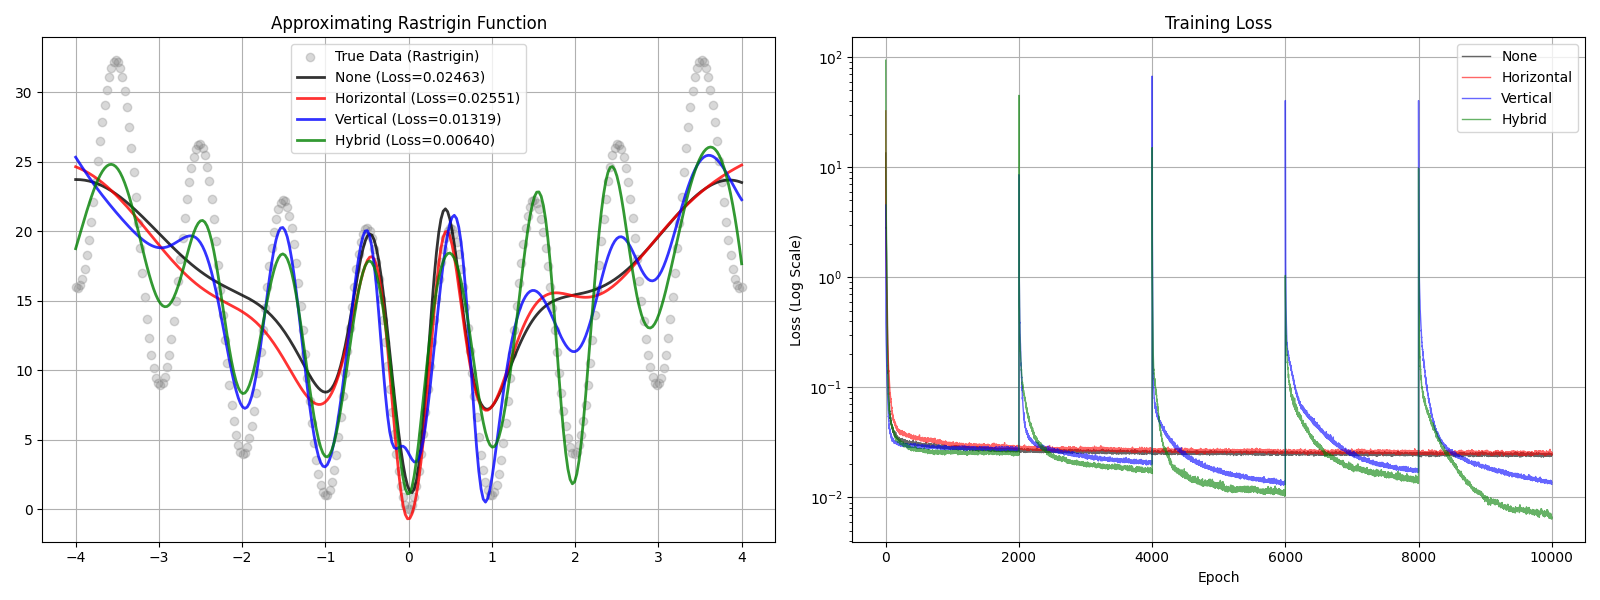
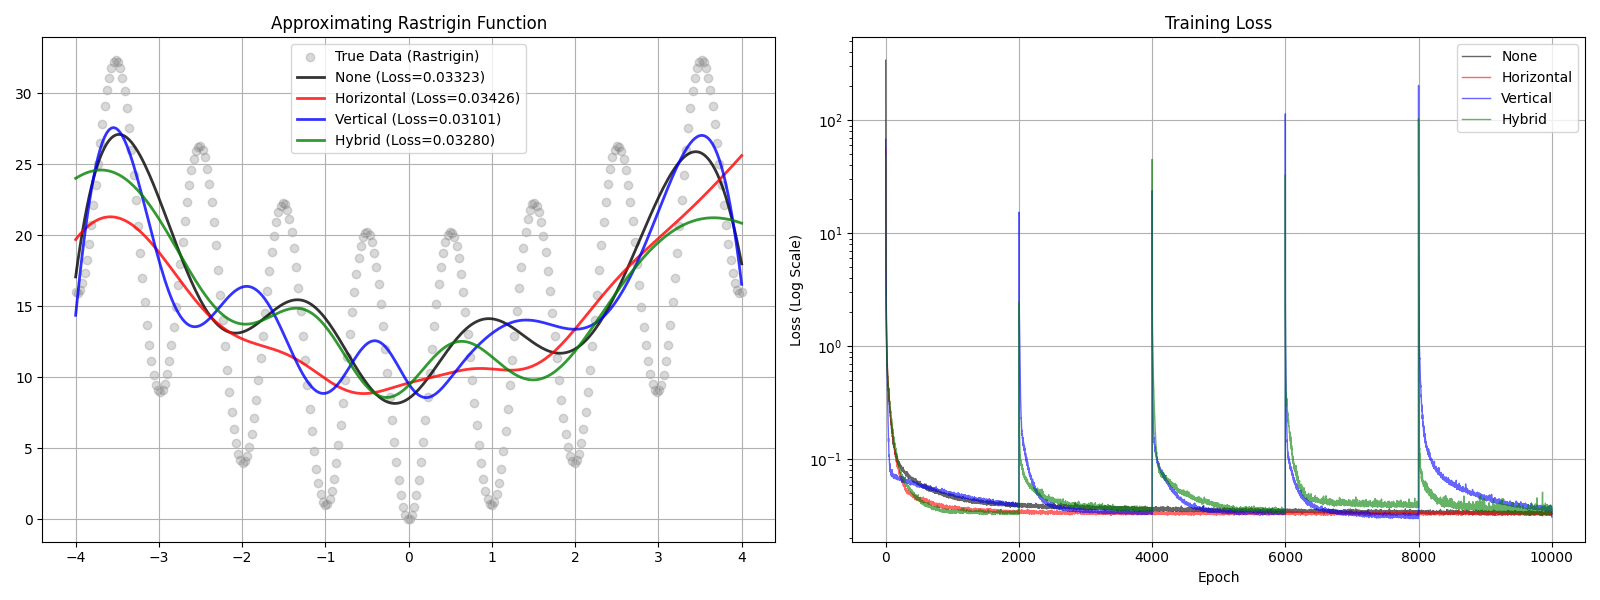
アプローチA：層別のノイズと学習率の導入～入力層、出力層の近さで層を大粒子、小粒子に見立てて小粒子のノイズや学習率を大きくした

diff --git a/physics_sim/vibration.py b/physics_sim/vibration.py
@@ -15,13 +15,25 @@ class PhysicsOptimizer:
            Hybridモードでも有効
         """
         if self.mode not in ["Horizontal", "Hybrid"]: return
-
+        
         for layer in network.layers:
-            # 勾配の大きさに関わらず一定のノイズ
-            noise_w = np.random.normal(0, self.noise_scale, layer.weights_gradient.shape)
-            noise_b = np.random.normal(0, self.noise_scale, layer.biases_gradient.shape)
-            layer.weights_gradient += noise_w
-            layer.biases_gradient += noise_b
+            # 入力層に近い層を大粒子と見立てて分岐
+            if layer.name == "Hidden1":
+                # 勾配の大きさに関わらず一定のノイズ
+                noise_w = np.random.normal(0, self.noise_scale, layer.weights_gradient.shape)
+                noise_b = np.random.normal(0, self.noise_scale, layer.biases_gradient.shape)
+                layer.weights_gradient += noise_w
+                layer.biases_gradient += noise_b
+
+            # 出力に近い層を小粒子と見立てて分岐
+            # 大粒子の1/10のスケールとしておく
+            elif layer.name in ["Hidden2" or "Output"]:
+                noise_w = np.random.normal(0, self.noise_scale*1.5, layer.weights_gradient.shape)
+                noise_b = np.random.normal(0, self.noise_scale*1.5, layer.biases_gradient.shape)
+                layer.weights_gradient += noise_w
+                layer.biases_gradient += noise_b
+
+
 
     def apply_vertical_vibration(self, network, epoch):
         """鉛直振動: 重みに衝撃を与える

diff --git a/ml_core/network.py b/ml_core/network.py
@@ -24,5 +24,12 @@ class Network:
     def update(self, learning_rate):
         # 勾配降下法によるパラメータの更新
         for layer in self.layers:
-            layer.weights -= learning_rate * layer.weights_gradient
-            layer.biases -= learning_rate * layer.biases_gradient
+            # 入力層に近い層を大粒子として専用の学習率を適用する
+            if layer.name == "Hidden1":
+                layer.weights -= learning_rate * layer.weights_gradient
+                layer.biases -= learning_rate * layer.biases_gradient
+
+            # 出力層に近い層を小粒子として専用の学習率を適用する
+            if layer.name in ["Hidden2", "Output"]:
+                layer.weights -= (learning_rate*1.5) * layer.weights_gradient
+                layer.biases -= (learning_rate*1.5) * layer.biases_gradient          

diff --git a/visualization.py b/visualization.py
@@ -4,8 +4,12 @@ import matplotlib.pyplot as plt
 # Result Visualization
 # ==========================================
 
+# 出力する画像ファイルの名前はここで編集
+outputfile = "result_v2_rastrigin_bimodal.png"
+
 def plot_results(x, y_true, results, normalization_params):
     """フィッティング結果とLossの推移をプロットする"""
+    
     _, _, y_min, y_max = normalization_params
     
     fig, axes = plt.subplots(1, 2, figsize=(16, 6))
@@ -48,5 +52,5 @@ def plot_results(x, y_true, results, normalization_params):
     ax2.grid(True)
     
     plt.tight_layout()
-    plt.savefig("result_rastrigin_hybrid.png")
-    print("\nSaved result_rastrigin_hybrid.png")
+    plt.savefig(outputfile)
+    print(outputfile)
